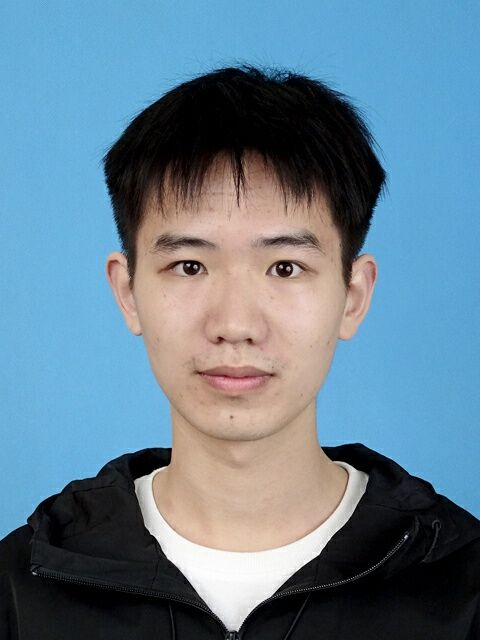
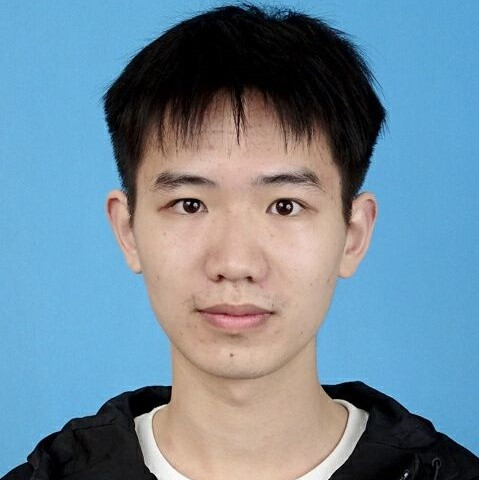
Update phd student kun jiang

diff --git a/people.html b/people.html
@@ -113,12 +113,10 @@
 				<th width="25%" align="right"><img class="person-photos" src="img/peoples/xingjun.jpg"></th>
 				<th width="25%" align="left" valign="top"><span>Xingjun Luo (罗兴军)</span><br> luoxingjun@csu.edu.com</th>
 			</tr>
-			<!--
 			<tr>
 				<th width="25%"align="right"><img class="person-photos" src="img/peoples/jiangkun.jpg" ><br></th>
 				<th width="25%" align="left" valign="top"><span>Kun Jiang (江坤)</span><br> kunjiang@csu.edu.cn </th>
 			</tr>
-			-->
 			<!--
 				<tr>
 				    <th width="25%" align="right"><img class="person-photos" src="img/kun.jpg" ><br></th>
